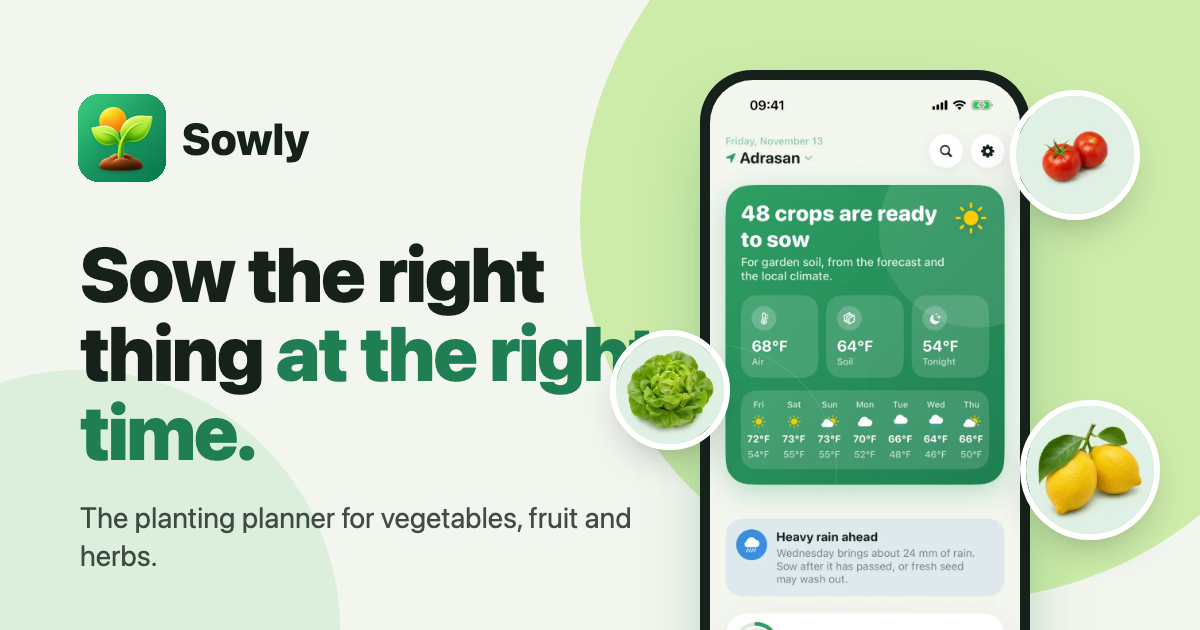
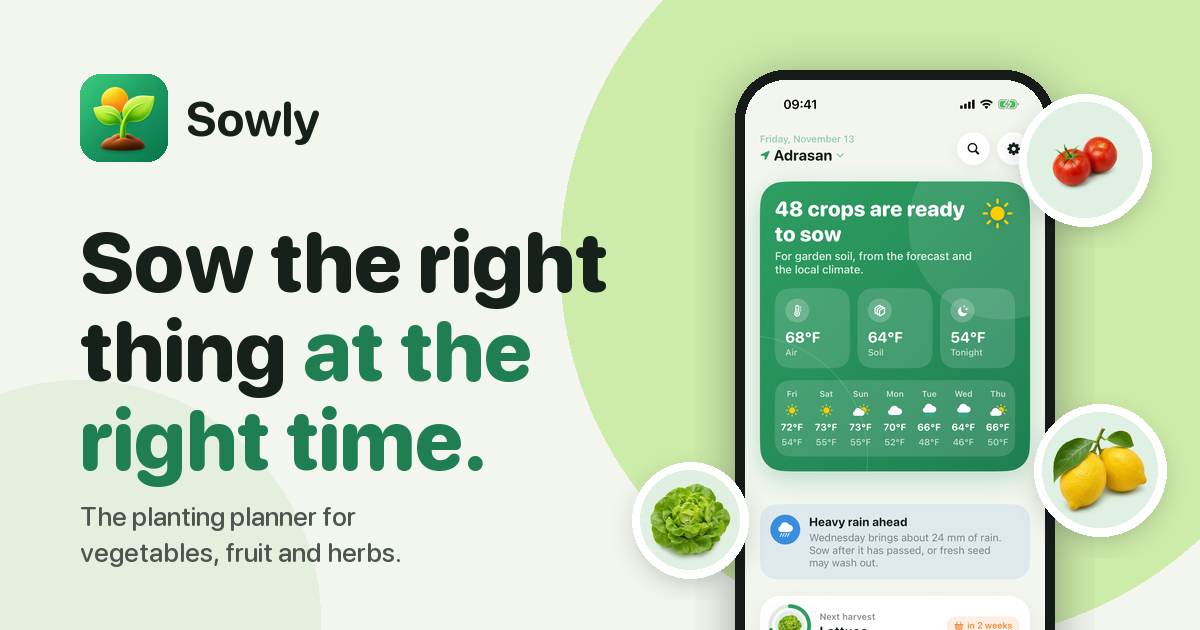
Redraw the share image so the headline is not cut off

diff --git a/tools/make_og.py b/tools/make_og.py
@@ -1,0 +1,99 @@
+"""Draws public/assets/og.png, the 1200 × 630 share image.
+
+Uses the app icon (../planting-app/design/icon/icon-a.png), the Today screenshot
+(../planting-app/marketing/raw/today.png), produce photos (../planting-app/design/crops) and the system
+SF Pro Rounded font. Run from the repository root: python3 -I tools/make_og.py
+"""
+from pathlib import Path
+
+from PIL import Image, ImageDraw, ImageFilter, ImageFont
+
+ROOT = Path(__file__).resolve().parent.parent
+APP = ROOT.parent / "planting-app"
+W, H = 1200, 630
+INK, GREEN, MUTED = (22, 33, 27), (31, 127, 82), (74, 86, 79)
+BACKGROUND, LIME = (243, 246, 239), (205, 235, 169)
+FONT = "/System/Library/Fonts/SFNSRounded.ttf"
+TEXT_RIGHT = 610   # the headline column ends here; nothing else may cross into it
+
+
+def font(size, weight="Bold"):
+    face = ImageFont.truetype(FONT, size)
+    face.set_variation_by_name(weight)
+    return face
+
+
+def rounded(image, radius):
+    mask = Image.new("L", image.size, 0)
+    ImageDraw.Draw(mask).rounded_rectangle((0, 0, image.width - 1, image.height - 1), radius=radius, fill=255)
+    return mask
+
+
+def circle_photo(canvas, path, center, radius):
+    """A produce photo in a white-ringed circle with a soft shadow."""
+    size = radius * 2
+    shadow = Image.new("L", (size + 60, size + 60), 0)
+    ImageDraw.Draw(shadow).ellipse((30, 38, 30 + size, 38 + size), fill=70)
+    shadow = shadow.filter(ImageFilter.GaussianBlur(14))
+    canvas.paste((0, 0, 0), (center[0] - radius - 30, center[1] - radius - 30), shadow)
+    ring = 8
+    ImageDraw.Draw(canvas).ellipse((center[0] - radius - ring, center[1] - radius - ring, center[0] + radius + ring, center[1] + radius + ring),
+                                   fill=(255, 255, 255))
+    photo = Image.open(path).convert("RGB").resize((size, size), Image.LANCZOS)
+    mask = Image.new("L", (size, size), 0)
+    ImageDraw.Draw(mask).ellipse((0, 0, size - 1, size - 1), fill=255)
+    canvas.paste(photo, (center[0] - radius, center[1] - radius), mask)
+
+
+canvas = Image.new("RGB", (W, H), BACKGROUND)
+draw = ImageDraw.Draw(canvas)
+draw.ellipse((560, -120, 1320, 640), fill=LIME)
+draw.ellipse((-160, 380, 320, 860), fill=(228, 239, 222))
+
+# Phone with the Today screen, cut off by the bottom edge.
+screen = Image.open(APP / "marketing/raw/today.png").convert("RGB")
+phone_w = 300
+screen = screen.resize((phone_w, round(screen.height * phone_w / screen.width)), Image.LANCZOS)
+frame = 10
+body = Image.new("RGB", (phone_w + frame * 2, screen.height + frame * 2), (22, 26, 24))
+body.paste(screen, (frame, frame), rounded(screen, 40))
+px, py = 735, 70
+shadow = Image.new("L", (body.width + 80, body.height + 80), 0)
+ImageDraw.Draw(shadow).rounded_rectangle((40, 50, 40 + body.width, 50 + body.height), radius=52, fill=90)
+canvas.paste((0, 0, 0), (px - 40, py - 40), shadow.filter(ImageFilter.GaussianBlur(22)))
+canvas.paste(body, (px, py), rounded(body, 50))
+
+crops = APP / "design/crops"
+circle_photo(canvas, crops / "tomato.jpg", (1085, 160), 58)
+circle_photo(canvas, crops / "lemon.jpg", (1100, 470), 58)
+circle_photo(canvas, crops / "lettuce.jpg", (690, 520), 50)
+
+# Icon and name.
+icon = Image.open(APP / "design/icon/icon-a.png").convert("RGB").resize((88, 88), Image.LANCZOS)
+canvas.paste(icon, (80, 74), rounded(icon, 20))
+draw.text((186, 118), "Sowly", font=font(48, "Bold"), fill=INK, anchor="lm")
+
+# Headline: the largest size at which every line fits the text column.
+lines = [[("Sow the right", INK)], [("thing ", INK), ("at the", GREEN)], [("right time.", GREEN)]]
+size = 84
+while True:
+    face = font(size, "Heavy")
+    widest = max(sum(draw.textlength(text, font=face) for text, _ in line) for line in lines)
+    if 80 + widest <= TEXT_RIGHT or size <= 40:
+        break
+    size -= 2
+y = 210
+for line in lines:
+    x = 80
+    for text, color in line:
+        draw.text((x, y), text, font=face, fill=color)
+        x += draw.textlength(text, font=face)
+    y += round(size * 1.06)
+
+subtitle = font(27, "Medium")
+for index, text in enumerate(["The planting planner for", "vegetables, fruit and herbs."]):
+    draw.text((80, y + 22 + index * 36), text, font=subtitle, fill=MUTED)
+
+out = ROOT / "public/assets/og.png"
+canvas.save(out, optimize=True)
+print("wrote", out.relative_to(ROOT), f"(headline {size} pt, ends at {80 + round(widest)} px)")

diff --git a/README.md b/README.md
@@ -28,7 +28,7 @@ entry (`index.html`, `privacy/index.html`, `terms/index.html`, `support/index.ht
 ```
 index.html, privacy/, terms/, support/   HTML entries (title, description, Open Graph, hreflang)
 public/CNAME                             custom domain for GitHub Pages
-public/assets/                           icon.png (favicon, logo), og.png (1200 × 630 share image)
+public/assets/                           icon.png (favicon, logo), og.png (1200 × 630 share image, drawn by `python3 -I tools/make_og.py`)
 public/screens/<language>/               app screenshots, 780 px wide WebP, unframed
 public/crops/                            produce photos, 320 px WebP
 src/config.ts                            App Store URL, support e-mail, screenshot helpers
